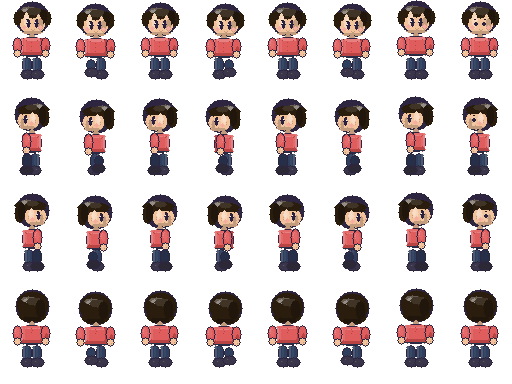
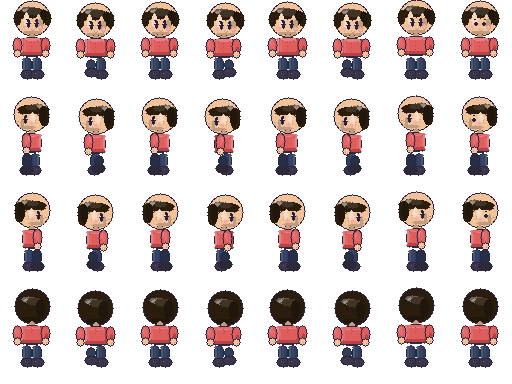
perf: cache chunk textures for near-instant lobby re-entry
- Render static chunk tiles to persistent canvas textures in TextureManager
  instead of RenderTextures, so they survive scene restarts
- On re-entry, chunks load from cached textures (one Image) instead of
  redrawing ~1024 tiles per chunk
- Collapse N individual chunk loading phases into one fast phase when all
  door chunks are cached
- Add invalidateChunkTexture() calls on tile updates to keep cache fresh
- Register shutdown handler in WorldLayer to properly destroy worker,
  lights, VFX, audio, and HUD on scene restart (was never called before)
- Add _destroyed guard to prevent double-destroy

diff --git a/client/src/game/world.ts b/client/src/game/world.ts
@@ -922,6 +922,10 @@ export class WorldLayer {
     } catch {
       this.worker = null;
     }
+
+    // Clean up on scene shutdown (restart) — terminates worker, destroys
+    // lights/vfx/audio/hud, and clears per-instance chunk state.
+    this.scene.events.once("shutdown", () => this.destroy());
   }
 
   /** Get hostility level at a pixel position (0–5). */
@@ -1016,6 +1020,8 @@ export class WorldLayer {
     // Also track locally in the store
     if (!this.store.chunkOverrides[key]) this.store.chunkOverrides[key] = {};
     this.store.chunkOverrides[key][tileIndex] = newTile;
+    // Invalidate cached canvas texture so renderChunk redraws with the new tile
+    this.invalidateChunkTexture(cx, cy);
     // re-render the chunk to reflect the change
     const oldContainer = this.chunkGraphics.get(key);
     if (oldContainer) {
@@ -1036,6 +1042,7 @@ export class WorldLayer {
     const chunk = this.chunks.get(key);
     if (chunk) {
       chunk.tiles[tileIndex] = tile;
+      this.invalidateChunkTexture(cx, cy);
       const oldContainer = this.chunkGraphics.get(key);
       if (oldContainer) {
         oldContainer.destroy(true);
@@ -1366,9 +1373,23 @@ export class WorldLayer {
     }
   }
 
+  /** Texture cache key for a chunk's static tile rendering. */
+  private chunkTexKey(cx: number, cy: number): string {
+    return `chunk-rt-${this.store.worldSeed}:${cx},${cy}`;
+  }
+
+  /** Remove a cached chunk canvas texture so the next renderChunk redraws it. */
+  private invalidateChunkTexture(cx: number, cy: number): void {
+    const texKey = this.chunkTexKey(cx, cy);
+    if (this.scene.textures.exists(texKey)) {
+      this.scene.textures.remove(texKey);
+    }
+  }
+
   private renderChunk(chunk: Chunk): void {
     const key = `${chunk.cx},${chunk.cy}`;
     const chunkPxSize = CHUNK_SIZE * TILE_PX;
+    const texKey = this.chunkTexKey(chunk.cx, chunk.cy);
     const container = this.scene.add.container(0, 0).setDepth(-1);
     const ox = chunk.cx * CHUNK_SIZE * TILE_PX + this.offset.x;
     const oy = chunk.cy * CHUNK_SIZE * TILE_PX + this.offset.y;
@@ -1395,39 +1416,79 @@ export class WorldLayer {
       return tile;
     };
 
-    // Single RenderTexture for all static tiles — one draw call instead of ~1024 sprites
-    const rt = this.scene.add.renderTexture(ox, oy, chunkPxSize, chunkPxSize);
-    rt.setOrigin(0, 0);
+    // Render static tiles to a persistent canvas texture (survives scene restarts).
+    // On subsequent loads, we skip the ~1024 draw calls and just create an Image.
+    if (!this.scene.textures.exists(texKey)) {
+      const canvasTex = this.scene.textures.createCanvas(texKey, chunkPxSize, chunkPxSize);
+      if (canvasTex) {
+        const ctx = canvasTex.getContext();
+        const worldTilesTex = this.scene.textures.get("world-tiles");
 
+        const drawTexToCanvas = (textureKey: string, px: number, py: number) => {
+          if (!this.scene.textures.exists(textureKey)) return;
+          const tex = this.scene.textures.get(textureKey);
+          const fr = tex.get(0);
+          if (fr) {
+            ctx.drawImage(
+              fr.source.image as CanvasImageSource,
+              fr.cutX, fr.cutY, fr.cutWidth, fr.cutHeight,
+              px, py, TILE_PX, TILE_PX,
+            );
+          }
+        };
+
+        for (let y = 0; y < CHUNK_SIZE; y++) {
+          for (let x = 0; x < CHUNK_SIZE; x++) {
+            const tile = chunk.tiles[y * CHUNK_SIZE + x];
+            const px = x * TILE_PX;
+            const py = y * TILE_PX;
+            const frame = tileToFrame(tile);
+
+            // Draw base tile
+            const fr = worldTilesTex.get(frame);
+            if (fr) {
+              ctx.drawImage(
+                fr.source.image as CanvasImageSource,
+                fr.cutX, fr.cutY, fr.cutWidth, fr.cutHeight,
+                px, py, TILE_PX, TILE_PX,
+              );
+            }
+
+            // Tennis objects (ball/racket/net) sit on court surface, not grass
+            if (tile === TILE.TENNIS_BALL || tile === TILE.TENNIS_RACKET || tile === TILE.TENNIS_NET) {
+              drawTexToCanvas("tennis-court", px, py);
+            }
+
+            // Draw overlay textures (golf items, trees, etc.)
+            const overlayKey = overlayTextures[tile];
+            if (overlayKey) {
+              drawTexToCanvas(overlayKey, px, py);
+            }
+          }
+        }
+        canvasTex.refresh();
+      }
+    }
+
+    // Create an Image from the (now cached) canvas texture — one GPU draw call
+    const img = this.scene.add.image(ox, oy, texKey);
+    img.setOrigin(0, 0);
+    container.add(img);
+
+    // Water animation sprites and light sources are dynamic — always recreated.
+    // Water: only create sprites for a subset of tiles to limit per-frame overhead.
+    // The static frame is already baked into the canvas texture.
     for (let y = 0; y < CHUNK_SIZE; y++) {
       for (let x = 0; x < CHUNK_SIZE; x++) {
         const tile = chunk.tiles[y * CHUNK_SIZE + x];
         const px = x * TILE_PX;
         const py = y * TILE_PX;
-        const frame = tileToFrame(tile);
 
-        // Draw base tile onto the RenderTexture
-        rt.drawFrame("world-tiles", frame, px, py);
-
-        // Tennis objects (ball/racket/net) sit on court surface, not grass
-        if (tile === TILE.TENNIS_BALL || tile === TILE.TENNIS_RACKET || tile === TILE.TENNIS_NET) {
-          rt.draw("tennis-court", px, py);
-        }
-
-        // Water tiles: keep a separate animated sprite on top of the RT
-        // Only create sprites for a subset of water tiles to limit per-frame
-        // animation overhead. The static frame is already on the RT.
         if (tile === TILE.WATER && (x % 3 === 0) && (y % 3 === 0)) {
           const waterSprite = this.scene.add.sprite(ox + px, oy + py, "world-tiles", 21);
           waterSprite.setOrigin(0, 0);
           waterSprite.play({ key: "water-anim", repeat: -1 }, true);
           container.add(waterSprite);
-        }
-
-        // Draw overlay textures onto the RT (golf items, trees, etc.)
-        const overlayKey = overlayTextures[tile];
-        if (overlayKey) {
-          rt.draw(overlayKey, px, py);
         }
 
         // Add tile-based light sources for special tiles (capped per chunk for perf)
@@ -1445,7 +1506,6 @@ export class WorldLayer {
       }
     }
 
-    container.add(rt);
     this.chunkGraphics.set(key, container);
     this.chunkLights.set(key, chunkLightList);
   }
@@ -1539,6 +1599,7 @@ export class WorldLayer {
           this.chunkGraphics.delete(key);
         }
         this.removeChunkLights(key);
+        this.invalidateChunkTexture(chunk.cx, chunk.cy);
         this.renderChunk(chunk);
       }
     }
@@ -2405,7 +2466,11 @@ export class WorldLayer {
     return pool[seed];
   }
 
+  private _destroyed = false;
+
   destroy(): void {
+    if (this._destroyed) return;
+    this._destroyed = true;
     this.worker?.terminate();
     this.worker = null;
     for (const key of this.chunkLights.keys()) this.removeChunkLights(key);

diff --git a/client/src/game/scene.ts b/client/src/game/scene.ts
@@ -304,7 +304,7 @@ export class OfficeScene extends Phaser.Scene {
     })();
 
     // Pre-allocate chunk phase slots (filled in by the "world layer" phase)
-    const chunkPhases: Array<{ name: string; fn: () => void }> = [];
+    const chunkPhases: Array<{ name: string; fn: () => void; skip?: boolean }> = [];
     for (let i = 0; i < doorChunkCount; i++) {
       chunkPhases.push({
         name: `world chunk ${i + 1}/${doorChunkCount}`,
@@ -312,7 +312,7 @@ export class OfficeScene extends Phaser.Scene {
       });
     }
 
-    const phases: Array<{ name: string; fn: () => void }> = [
+    const phases: Array<{ name: string; fn: () => void; skip?: boolean }> = [
       {
         name: "textures & animations",
         fn: () => {
@@ -622,12 +622,30 @@ export class OfficeScene extends Phaser.Scene {
           const doorChunks = this.world.getDoorChunkList();
           this.world.preGenerateChunks(doorChunks);
 
-          // Fill in the pre-allocated chunk phase slots with actual chunk data
-          for (let i = 0; i < doorChunks.length && i < chunkPhases.length; i++) {
-            const c = doorChunks[i];
-            chunkPhases[i].fn = () => {
-              this.world.loadSingleChunk(c.cx, c.cy);
+          // Check if all door chunks already have cached canvas textures.
+          // If so, load them all in a single phase and skip the rest — this
+          // makes re-entering a lobby near-instant instead of showing N
+          // "Building world chunk…" phases.
+          const allCached = doorChunks.every(c =>
+            this.textures.exists(`chunk-rt-${this.store.worldSeed}:${c.cx},${c.cy}`),
+          );
+
+          if (allCached) {
+            chunkPhases[0].name = `cached chunks (×${doorChunks.length})`;
+            chunkPhases[0].fn = () => {
+              for (const c of doorChunks) this.world.loadSingleChunk(c.cx, c.cy);
             };
+            for (let i = 1; i < chunkPhases.length; i++) {
+              chunkPhases[i].skip = true;
+            }
+          } else {
+            // Fill in the pre-allocated chunk phase slots with actual chunk data
+            for (let i = 0; i < doorChunks.length && i < chunkPhases.length; i++) {
+              const c = doorChunks[i];
+              chunkPhases[i].fn = () => {
+                this.world.loadSingleChunk(c.cx, c.cy);
+              };
+            }
           }
         },
       },
@@ -835,6 +853,15 @@ export class OfficeScene extends Phaser.Scene {
       if (phaseIndex >= phases.length) return;
 
       const phase = phases[phaseIndex];
+
+      // Skip phases marked as skip (e.g. cached chunk phases) — process
+      // them instantly without a frame delay.
+      if (phase.skip) {
+        phaseIndex++;
+        processNextPhase();
+        return;
+      }
+
       const progress = phaseIndex / totalPhases;
       updateLoadBar(progress, `Building ${phase.name}…`);
 

diff --git a/scripts/generate-assets.ts b/scripts/generate-assets.ts
@@ -2103,8 +2103,8 @@ function drawChar(s: Sheet, ox: number, oy: number, pal: CharPalette, dir: Dir, 
   // ===== ROUNDED CHIBI (64x96) — detailed, crisp edges =====
 
   if (d === "down") {
-    // ---- HEAD: round dome with solid outline ----
-    ci(hx(32), hy(18), 17, OUTLINE);
+    // ---- HEAD: round dome with outlined circle ----
+    ciO(hx(32), hy(18), 17, pal.skin);
     // Face
     el(hx(32), hy(22), 13, 12, pal.skin);
     // Hair (per-style)
@@ -2235,8 +2235,8 @@ function drawChar(s: Sheet, ox: number, oy: number, pal: CharPalette, dir: Dir, 
     }
 
   } else if (d === "up") {
-    // ---- HEAD: all hair, solid outline ----
-    ci(hx(32), hy(18), 17, OUTLINE);
+    // ---- HEAD: all hair, outlined circle ----
+    ciO(hx(32), hy(18), 17, pal.hair);
     drawHairUp();
     drawHeadFeature("up");
     // Accessory
@@ -2314,7 +2314,7 @@ function drawChar(s: Sheet, ox: number, oy: number, pal: CharPalette, dir: Dir, 
 
   } else {
     // ---- RIGHT PROFILE ----
-    ci(hx(32), hy(18), 17, OUTLINE);
+    ciO(hx(32), hy(18), 17, pal.skin);
     // Face
     el(hx(35), hy(24), 11, 9, pal.skin);
     // Hair (per-style)
